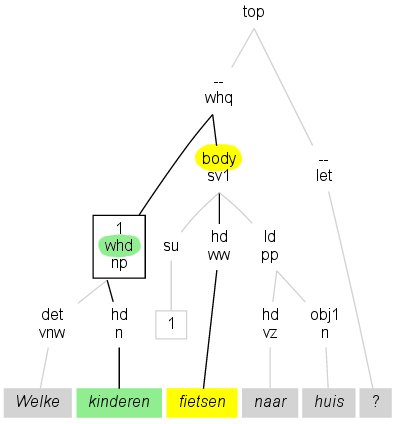
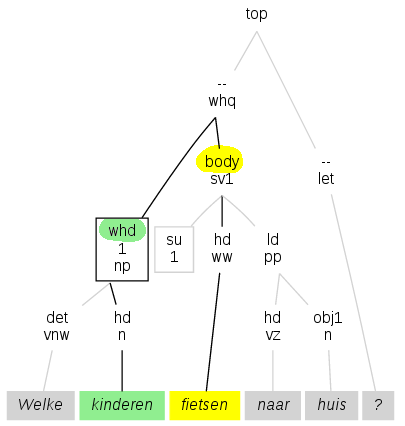
pqserve: xpath: zoeken met geëxpandeerde indexnodes: uitleg

diff --git a/src/pqserve/static/info.html b/src/pqserve/static/info.html
@@ -29,6 +29,9 @@ Inhoud:
   <li><a href="#woorden" target="_self">Woorden en lemma's</a>
   </ul>
 <li class="dbxml"><a href="#xpath" target="_self" class="dbxml">Zoeken met XPath</a>
+<ul class="dbxml">
+  <li class="dbxml"><a href="#expanded" target="_self" class="dbxml">Zoeken met geëxpandeerde indexnodes</a>
+</ul class="dbxml">
 <li><a href="#corpora" target="_self">Corpora</a>
 <ul>
   <li><a href="#corplat" target="_self">Platte tekst</a>
@@ -543,7 +546,30 @@ macro's te kunnen uploaden en/of te bewerken.
   <a href="http://rug-compling.github.io/dact/cookbook/" target="_blank">Dact Cookbook</a>
 </div>
 
-<hr>
+<h3 id="expanded" class="dbxml">Zoeken met geëxpandeerde indexnodes</h3>
+<div class="dbxml">
+<img src="expanded.png" alt="su" class="left maxwidth">
+
+Stel, je zoekt naar
+<a href="xpath?db=_default&amp;xpath=%2F%2Fnode%5B%40rel%3D&quot;su&quot;+and+%28%40lemma%3D&quot;kind&quot;+or+.%2F%2Fnode%5B%40lemma%3D&quot;kind&quot;%5D%29%5D" target="_blank">onderwerpen
+die het lemma <em>kind</em> bevatten</a>.
+Met de standaard zoekmethode zul de zin hiernaast niet vinden, want de
+node met het onderwerp is leeg.
+<p>
+<pre>
+    //node[ @rel = &quot;su&quot; and
+       ( @lemma = &quot;kind&quot; or .//node[ @lemma = &quot;kind&quot; ] )
+    ]
+</pre>
+De node met <code>rel=&quot;su&quot;</code> is leeg, maar bevat een
+index nummer dat verwijst naar een andere node met hetzelfde nummer die
+wel attributen en dochters bevat. Wanneer je zoekt met geëxpandeerde
+indexnodes, dan zijn de gegevens van die andere node gekopieerd naar de
+lege node, en daardoor geeft de XPath-expressie toch een match.
+
+</div>
+
+<hr style="clear:both">
     <h2 id="corpora">Corpora</h2>
 
 Als je bent ingelogd kun je onder de tab <em>Corpora</em> je eigen

diff --git a/src/pqserve/xpath_true.go b/src/pqserve/xpath_true.go
@@ -1311,7 +1311,7 @@ corpus: <select name="db">
 		fmt.Fprintf(q.w, `methode: <select name="mt">
 			<option value="std">standaard</option>
 			<option value="dx"%s>ge&euml;xpandeerde indexnodes</option>
-			</select>
+			</select> (<a href="info.html#expanded" target="_blank">uitleg</a>)
 			<p>`, selected)
 	}
 	fmt.Fprintln(q.w, `aantal: <select name="xn">`)

diff --git a/src/pqserve/pqserve.go b/src/pqserve/pqserve.go
@@ -207,6 +207,7 @@ func main() {
 	handleFunc("relhead.png", static_relhead_png)
 	handleFunc("relnone.png", static_relnone_png)
 	handleFunc("relother.png", static_relother_png)
+	handleFunc("expanded.png", static_expanded_png)
 
 	handleFunc("folia", foliatool)
 	handleFunc("foliah0", static_foliahelp0_html)

diff --git a/src/pqserve/static.go b/src/pqserve/static.go
@@ -36,6 +36,12 @@ func static_clarinnl_png(q *Context) {
 	fmt.Fprint(q.w, file__clarinnl__png)
 }
 
+func static_expanded_png(q *Context) {
+	contentType(q, "image/png")
+	cache(q)
+	fmt.Fprint(q.w, file__expanded__png)
+}
+
 func static_favicon_ico(q *Context) {
 	contentType(q, "image/x-icon")
 	cache(q)
